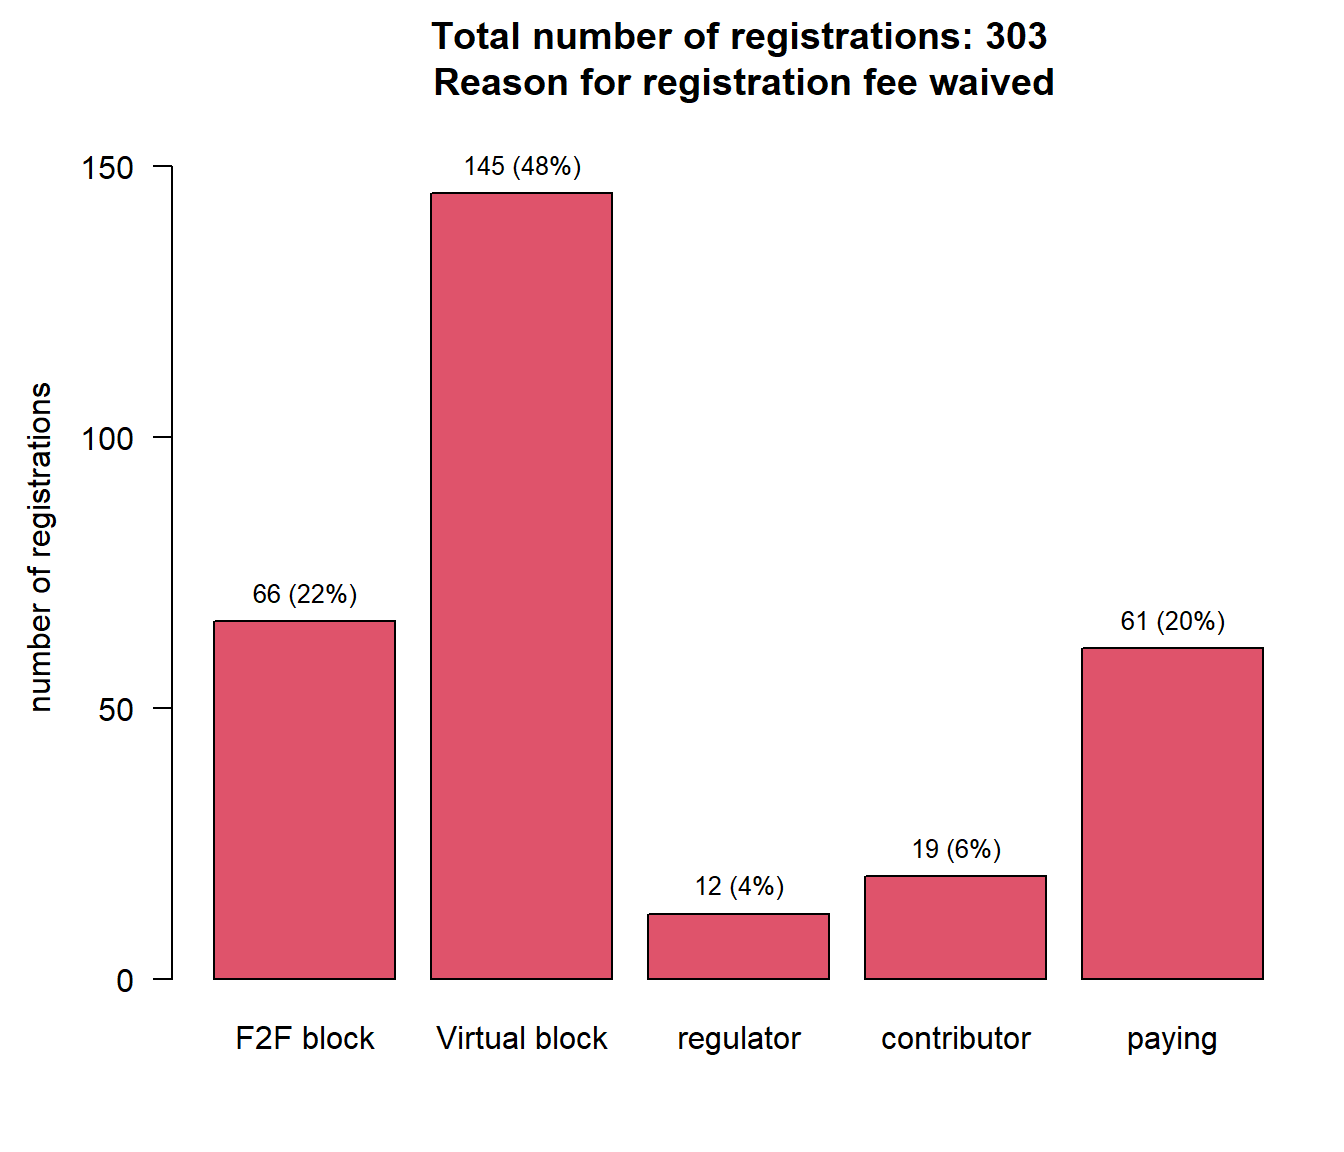
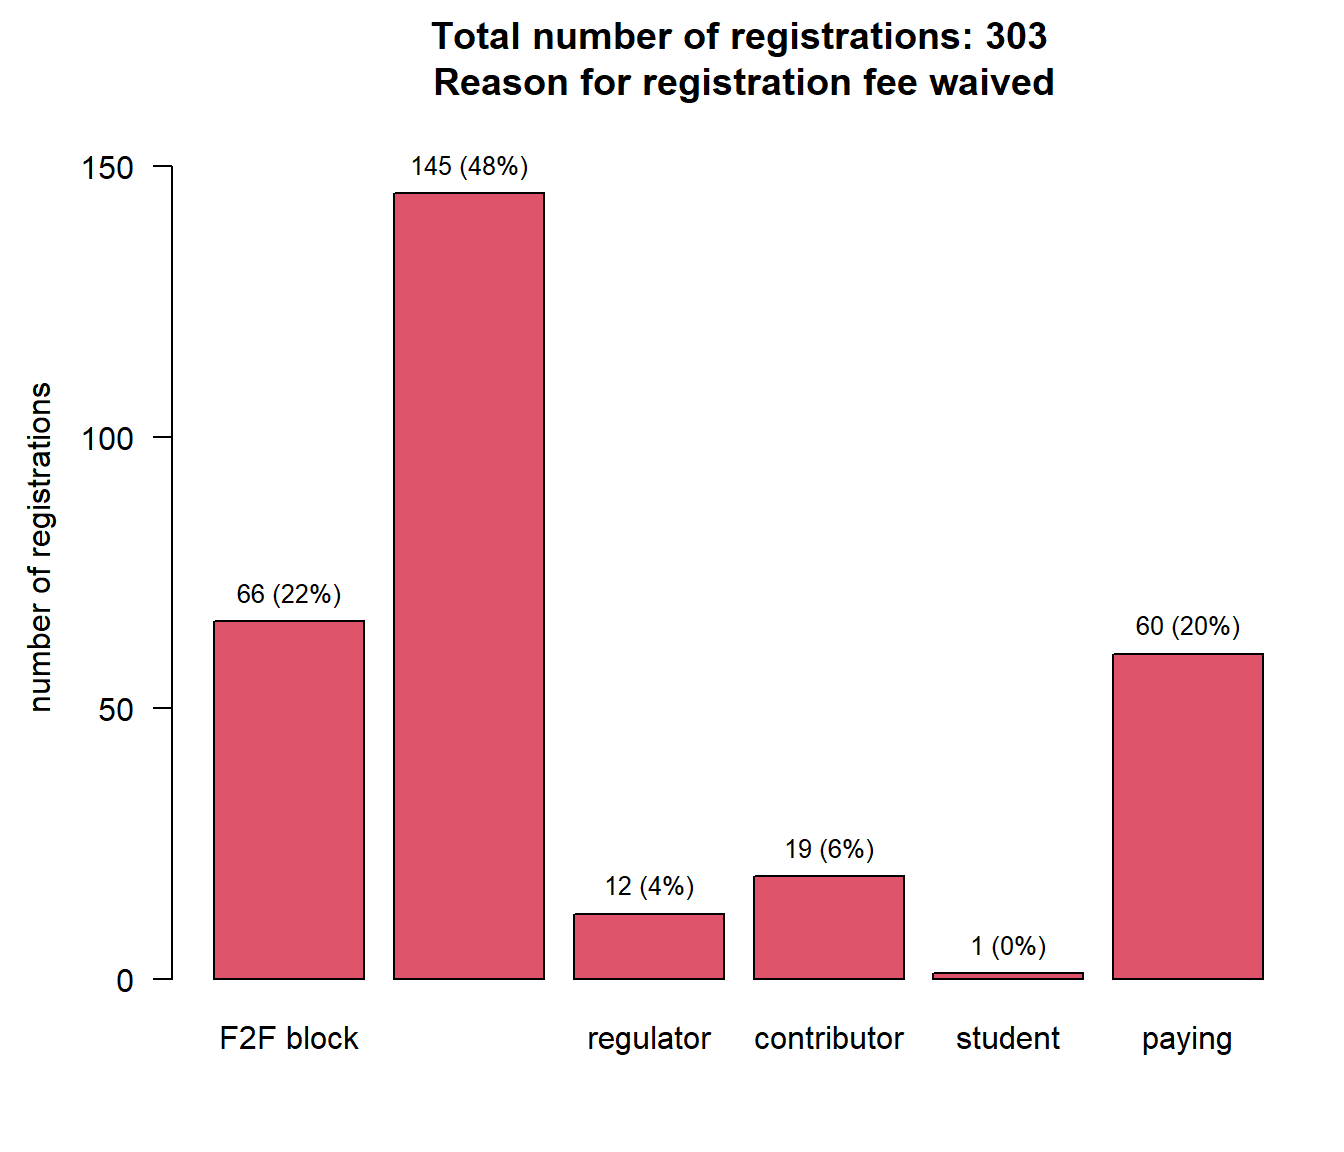
update

Changed region(s): [[0.1562, 0.125, 0.9375, 0.9375], [0.8438, 0.875, 0.9062, 0.9375], [0.1562, 0.875, 0.2812, 0.9062]]

diff --git a/docs/2026.html b/docs/2026.html
@@ -244,7 +244,7 @@ ul.task-list li input[type="checkbox"] {
 </section>
 <section id="program-and-registration" class="level1">
 <h1>Program and registration</h1>
-<p><a href="data/2026/11th EFSPI RegStat Workshop program.pdf">Draft program (status: 12th May 2026)</a>.</p>
+<p><a href="data/2026/11th EFSPI RegStat Workshop program.pdf">Draft program (status: 18th May 2026)</a>.</p>
 <p><a href="https://forms.gle/yADwS2mSjrevJKuC9">Registration</a>.</p>
 </section>
 <section id="deadlines" class="level1">
@@ -264,7 +264,7 @@ ul.task-list li input[type="checkbox"] {
 <p>whatever happens first.</p>
 <p>For virtual attendance: <strong><font color="red">17th August 2026 EOB</font></strong>.</p>
 <!-- <br> -->
-<!-- [Draft program (status: 12th May 2026)](data/2026/11th EFSPI RegStat Workshop program.pdf). -->
+<!-- [Draft program (status: 18th May 2026)](data/2026/11th EFSPI RegStat Workshop program.pdf). -->
 <!-- [Registration](https://forms.gle/yADwS2mSjrevJKuC9). -->
 <!-- Members of [local organizing committee](local.html). -->
 <!-- Members of [scientific committee](scicom.html). -->

diff --git a/docs/dialin.html b/docs/dialin.html
@@ -235,7 +235,7 @@ ul.task-list li input[type="checkbox"] {
 <!-- # Scope and contact -->
 <!-- This document provides necessary information for virtual contributors to dial in to the zoom meetings at the day of the event. For any further questions please do not hesitate to reach out to one of the [local organizing committee members](local.html). -->
 <!-- # Program -->
-<!-- [Draft program (status: 12th May 2026)](data/2026/11th EFSPI RegStat Workshop program.pdf). -->
+<!-- [Draft program (status: 18th May 2026)](data/2026/11th EFSPI RegStat Workshop program.pdf). -->
 <!-- # Dial-in instructions -->
 <!-- We would like to inform you about how to join the zoom TC, in case you dial in remotely. -->
 <!-- ## Zoom -->
@@ -244,7 +244,7 @@ ul.task-list li input[type="checkbox"] {
 <!-- - We would appreciate if you could dial in about 20min early into the practice session, for us to check that everything works. Attendees can dial in but will not be in the webinar before we let them in. You will not need to log out from this session and can just stay in. -->
 <!-- - Only panelists will have the option to turn on their camera and microphon. Attendees can only speak when we unmute them (which we do not plan for, we will invite them to ask questions through the chat). -->
 <!-- - Status of registrations: Find this [here](https://efspieurope.github.io/workshop/data/2023/analysis2023.html). We have 771 registrations from 30 countries as of now, with 320 face-to-face. 58 colleagues from regulatory agencies registered so far. -->
-<!-- - The current version of the program is [Draft program (status: 12th May 2026)](data/2026/11th EFSPI RegStat Workshop program.pdf). -->
+<!-- - The current version of the program is [Draft program (status: 18th May 2026)](data/2026/11th EFSPI RegStat Workshop program.pdf). -->
 <!-- ## Face-to-face attendance -->
 <!-- - **Venue**: The event takes place in the Biozentrum in Basel ([directions](next.html)), in the Maurice Müller Lecture hall in the basement. -->
 <!-- - **WLAN in the Biozentrum**: Connect to Unibas visitor. It will ask for your mobile phone number for confirmation. -->

diff --git a/docs/chairs_instructions.html b/docs/chairs_instructions.html
@@ -282,7 +282,7 @@ window.Quarto = {
 </section>
 <section id="program" class="level1">
 <h1>Program</h1>
-<p><a href="data/2026/11th EFSPI RegStat Workshop program.pdf">Draft program (status: 12th May 2026)</a>.</p>
+<p><a href="data/2026/11th EFSPI RegStat Workshop program.pdf">Draft program (status: 18th May 2026)</a>.</p>
 </section>
 <section id="registration" class="level1">
 <h1>Registration</h1>

diff --git a/docs/chat.html b/docs/chat.html
@@ -241,7 +241,7 @@ ul.task-list li input[type="checkbox"] {
 <p>You have registered for face-to-face participation to the EFSPI regulatory statistics workshop as a Roche or Novartis colleague with statistics background.</p>
 <p>The <a href="local.html">local organizing committee members</a> thanks you for agreeing to be a <strong>chat observer</strong>! The ask for this task would be:</p>
 <ul>
-<li>Identify your industry session chair from the <a href="data/2026/11th EFSPI RegStat Workshop program.pdf">Draft program (status: 12th May 2026)</a> and make yourself known to her/him ahead of the session.</li>
+<li>Identify your industry session chair from the <a href="data/2026/11th EFSPI RegStat Workshop program.pdf">Draft program (status: 18th May 2026)</a> and make yourself known to her/him ahead of the session.</li>
 <li>Sit in the front row, as close as possible to the industry session chair.</li>
 <li>Bring your laptop, dial in to the zoom TC.</li>
 <li>Monitor the Q&amp;A part of zoom (that is where virtual attendees are supposed to ask questions) and

diff --git a/docs/data/2024/analysis2024.html b/docs/data/2024/analysis2024.html
@@ -251,7 +251,7 @@ ul.task-list li input[type="checkbox"] {
 
 <section id="data-status" class="level1">
 <h1>Data status</h1>
-<p>Data as of 2026-05-18 at 22:04:32.</p>
+<p>Data as of 2026-05-19 at 09:13:59.</p>
 </section>
 <section id="registrations-by-type-of-institution" class="level1">
 <h1>Registrations by type of institution</h1>

diff --git a/docs/data/2025/analysis2025.html b/docs/data/2025/analysis2025.html
@@ -243,7 +243,7 @@ ul.task-list li input[type="checkbox"] {
 
 <section id="data-status" class="level1">
 <h1>Data status</h1>
-<p>Data as of 2026-05-18 at 22:04:58.</p>
+<p>Data as of 2026-05-19 at 09:14:20.</p>
 </section>
 <section id="registrations" class="level1 tabset tabset-fade tabset-pills">
 <h1 class="tabset tabset-fade tabset-pills">Registrations</h1>

diff --git a/docs/data/2026/analysis2026.html b/docs/data/2026/analysis2026.html
@@ -243,7 +243,7 @@ ul.task-list li input[type="checkbox"] {
 
 <section id="data-status" class="level1">
 <h1>Data status</h1>
-<p>Data as of 2026-05-18 at 22:05:29.</p>
+<p>Data as of 2026-05-19 at 09:14:50.</p>
 </section>
 <section id="registrations" class="level1 tabset tabset-fade tabset-pills">
 <h1 class="tabset tabset-fade tabset-pills">Registrations</h1>

diff --git a/docs/index.html b/docs/index.html
@@ -7,7 +7,7 @@
 <meta name="viewport" content="width=device-width, initial-scale=1.0, user-scalable=yes">
 
 
-<title>quarto-inputd2873dc7ab9fd2dc – EFSPI regulatory statistics workshop</title>
+<title>quarto-input420baf84652b6677 – EFSPI regulatory statistics workshop</title>
 <style>
 code{white-space: pre-wrap;}
 span.smallcaps{font-variant: small-caps;}

diff --git a/docs/registration_faq.html b/docs/registration_faq.html
@@ -278,7 +278,7 @@ ul.task-list li input[type="checkbox"] {
 </section>
 <section id="program-and-registration" class="level1">
 <h1>Program and registration</h1>
-<p><a href="data/2026/11th EFSPI RegStat Workshop program.pdf">Draft program (status: 12th May 2026)</a>.</p>
+<p><a href="data/2026/11th EFSPI RegStat Workshop program.pdf">Draft program (status: 18th May 2026)</a>.</p>
 <p><a href="https://forms.gle/yADwS2mSjrevJKuC9">Registration</a>.</p>
 </section>
 <section id="registration-fees" class="level1">

diff --git a/docs/speaker.html b/docs/speaker.html
@@ -282,7 +282,7 @@ window.Quarto = {
 </section>
 <section id="program" class="level1">
 <h1>Program</h1>
-<p><a href="data/2026/11th EFSPI RegStat Workshop program.pdf">Draft program (status: 12th May 2026)</a>.</p>
+<p><a href="data/2026/11th EFSPI RegStat Workshop program.pdf">Draft program (status: 18th May 2026)</a>.</p>
 </section>
 <section id="registration" class="level1">
 <h1>Registration</h1>

diff --git a/docs/stats.html b/docs/stats.html
@@ -223,7 +223,7 @@ ul.task-list li input[type="checkbox"] {
 </header>
 
 
-<p>Status of 2026 registrations as per 2026-05-18 22:07:11.187235.</p>
+<p>Status of 2026 registrations as per 2026-05-19 09:16:08.20228.</p>
 <div class="cell" data-layout-align="center">
 <div class="cell-output-display">
 <div class="quarto-figure quarto-figure-center">

diff --git a/docs/whyattend.html b/docs/whyattend.html
@@ -239,7 +239,7 @@ ul.task-list li input[type="checkbox"] {
 <section id="why-should-i-attend-the-efspi-regulatory-statistics-workshop-at-all" class="level1">
 <h1>Why should I attend the EFSPI regulatory statistics workshop at all?</h1>
 <ul>
-<li>Each year, a <a href="scicom.html">scientific committee</a> of statistical key opinion leaders from regulatory agencies and industry alike spend lots of time and energy to craft a program that allows exposition and discussion of key drug development topics of mutual interest. <a href="data/2026/11th EFSPI RegStat Workshop program.pdf">Draft program (status: 12th May 2026)</a>.</li>
+<li>Each year, a <a href="scicom.html">scientific committee</a> of statistical key opinion leaders from regulatory agencies and industry alike spend lots of time and energy to craft a program that allows exposition and discussion of key drug development topics of mutual interest. <a href="data/2026/11th EFSPI RegStat Workshop program.pdf">Draft program (status: 18th May 2026)</a>.</li>
 <li>Different from most other scientific conferences, all presentations and discussions are by invitation only, what allows to offer tailored and coherent sessions.</li>
 <li>The focus of the workshop is less on presentation of scientific results and statistical methods. Rather, the format and style is such that it fosters discussions among presenters and attendees in an open, engaging, and informal way. This, during the sessions and also during the breaks and the social event.</li>
 <li>Each year, several hundred drug developers from Europe, and often beyond, attend the workshop. The venue, together with extended breaks between sessions offer ample opportunity to interact, discuss, and drink coffee together with industry peers and regulatory colleagues (who are very accessible during the workshop).</li>